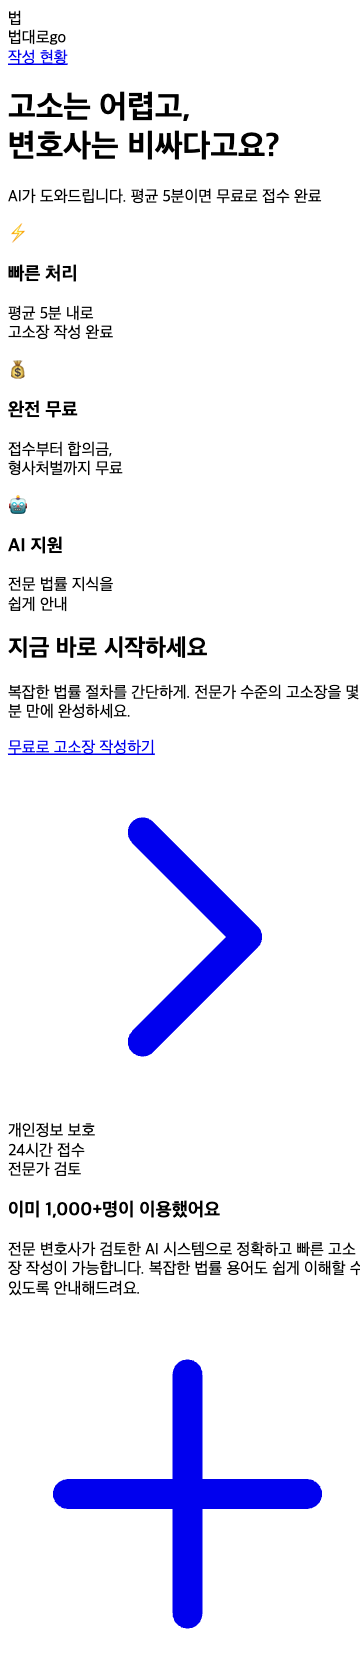
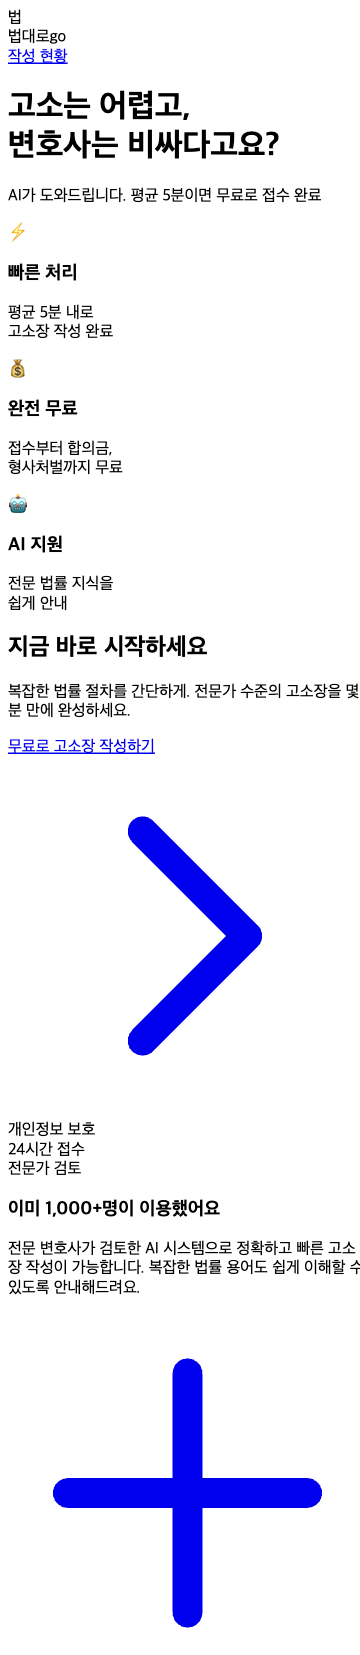
Use inline styles to force design application
- Add inline CSS styles to ensure proper rendering
- Force blue gradient background with inline style
- Add hover effects with onMouseEnter/onMouseLeave
- Ensure button shows as blue button instead of text link
- Add proper card styling with shadows and borders
- Bypass Tailwind CSS issues with direct styling

🤖 Generated with [Claude Code](https://claude.ai/code)

diff --git a/src/app/page.tsx b/src/app/page.tsx
@@ -2,7 +2,13 @@ import Link from "next/link";
 
 export default function Home() {
   return (
-    <div className="min-h-screen bg-gradient-to-br from-blue-600 via-blue-500 to-purple-600 relative overflow-hidden">
+    <div 
+      className="min-h-screen relative overflow-hidden"
+      style={{
+        background: 'linear-gradient(135deg, #2563eb 0%, #3b82f6 50%, #8b5cf6 100%)',
+        minHeight: '100vh'
+      }}
+    >
       {/* 백그라운드 장식 요소 */}
       <div className="absolute inset-0 overflow-hidden">
         <div className="absolute -top-40 -right-40 w-80 h-80 bg-white/20 rounded-full mix-blend-multiply filter blur-xl"></div>
@@ -47,7 +53,28 @@ export default function Home() {
 
           {/* 특징 카드들 */}
           <div className="grid md:grid-cols-3 gap-6 lg:gap-8 max-w-4xl mx-auto">
-            <div className="bg-white rounded-2xl shadow-xl border border-gray-100 p-8 text-center space-y-4 hover:shadow-2xl hover:border-gray-200 transition-all duration-300 hover:scale-105">
+            <div 
+              className="text-center"
+              style={{
+                backgroundColor: 'white',
+                borderRadius: '1rem',
+                boxShadow: '0 25px 50px -12px rgba(0, 0, 0, 0.25)',
+                border: '1px solid #f3f4f6',
+                padding: '2rem',
+                transition: 'all 0.3s ease',
+                cursor: 'pointer'
+              }}
+              onMouseEnter={(e) => {
+                e.currentTarget.style.transform = 'scale(1.05)';
+                e.currentTarget.style.boxShadow = '0 35px 60px -12px rgba(0, 0, 0, 0.35)';
+                e.currentTarget.style.borderColor = '#d1d5db';
+              }}
+              onMouseLeave={(e) => {
+                e.currentTarget.style.transform = 'scale(1)';
+                e.currentTarget.style.boxShadow = '0 25px 50px -12px rgba(0, 0, 0, 0.25)';
+                e.currentTarget.style.borderColor = '#f3f4f6';
+              }}
+            >
               <div className="w-16 h-16 bg-blue-100 rounded-2xl flex items-center justify-center mx-auto">
                 <span className="text-3xl">⚡</span>
               </div>
@@ -55,7 +82,28 @@ export default function Home() {
               <p className="text-gray-600">평균 5분 내로<br />고소장 작성 완료</p>
             </div>
             
-            <div className="bg-white rounded-2xl shadow-xl border border-gray-100 p-8 text-center space-y-4 hover:shadow-2xl hover:border-gray-200 transition-all duration-300 hover:scale-105">
+            <div 
+              className="text-center"
+              style={{
+                backgroundColor: 'white',
+                borderRadius: '1rem',
+                boxShadow: '0 25px 50px -12px rgba(0, 0, 0, 0.25)',
+                border: '1px solid #f3f4f6',
+                padding: '2rem',
+                transition: 'all 0.3s ease',
+                cursor: 'pointer'
+              }}
+              onMouseEnter={(e) => {
+                e.currentTarget.style.transform = 'scale(1.05)';
+                e.currentTarget.style.boxShadow = '0 35px 60px -12px rgba(0, 0, 0, 0.35)';
+                e.currentTarget.style.borderColor = '#d1d5db';
+              }}
+              onMouseLeave={(e) => {
+                e.currentTarget.style.transform = 'scale(1)';
+                e.currentTarget.style.boxShadow = '0 25px 50px -12px rgba(0, 0, 0, 0.25)';
+                e.currentTarget.style.borderColor = '#f3f4f6';
+              }}
+            >
               <div className="w-16 h-16 bg-green-100 rounded-2xl flex items-center justify-center mx-auto">
                 <span className="text-3xl">💰</span>
               </div>
@@ -63,7 +111,28 @@ export default function Home() {
               <p className="text-gray-600">접수부터 합의금,<br />형사처벌까지 무료</p>
             </div>
             
-            <div className="bg-white rounded-2xl shadow-xl border border-gray-100 p-8 text-center space-y-4 hover:shadow-2xl hover:border-gray-200 transition-all duration-300 hover:scale-105">
+            <div 
+              className="text-center"
+              style={{
+                backgroundColor: 'white',
+                borderRadius: '1rem',
+                boxShadow: '0 25px 50px -12px rgba(0, 0, 0, 0.25)',
+                border: '1px solid #f3f4f6',
+                padding: '2rem',
+                transition: 'all 0.3s ease',
+                cursor: 'pointer'
+              }}
+              onMouseEnter={(e) => {
+                e.currentTarget.style.transform = 'scale(1.05)';
+                e.currentTarget.style.boxShadow = '0 35px 60px -12px rgba(0, 0, 0, 0.35)';
+                e.currentTarget.style.borderColor = '#d1d5db';
+              }}
+              onMouseLeave={(e) => {
+                e.currentTarget.style.transform = 'scale(1)';
+                e.currentTarget.style.boxShadow = '0 25px 50px -12px rgba(0, 0, 0, 0.25)';
+                e.currentTarget.style.borderColor = '#f3f4f6';
+              }}
+            >
               <div className="w-16 h-16 bg-purple-100 rounded-2xl flex items-center justify-center mx-auto">
                 <span className="text-3xl">🤖</span>
               </div>
@@ -87,7 +156,29 @@ export default function Home() {
               {/* 메인 CTA 버튼 */}
               <Link
                 href="/submit"
-                className="w-full bg-blue-600 hover:bg-blue-700 text-white font-bold text-xl py-6 px-8 rounded-2xl transition-all duration-300 shadow-xl hover:shadow-2xl transform hover:scale-105 hover:-translate-y-1 block text-center group focus:ring-4 focus:ring-blue-300"
+                className="w-full block text-center group"
+                style={{
+                  backgroundColor: '#3b82f6',
+                  color: 'white',
+                  fontWeight: 'bold',
+                  fontSize: '1.25rem',
+                  padding: '1.5rem 2rem',
+                  borderRadius: '1rem',
+                  textDecoration: 'none',
+                  boxShadow: '0 25px 50px -12px rgba(0, 0, 0, 0.25)',
+                  transition: 'all 0.3s ease',
+                  transform: 'translateY(0)',
+                }}
+                onMouseEnter={(e) => {
+                  e.currentTarget.style.backgroundColor = '#2563eb';
+                  e.currentTarget.style.transform = 'translateY(-4px) scale(1.02)';
+                  e.currentTarget.style.boxShadow = '0 35px 60px -12px rgba(0, 0, 0, 0.35)';
+                }}
+                onMouseLeave={(e) => {
+                  e.currentTarget.style.backgroundColor = '#3b82f6';
+                  e.currentTarget.style.transform = 'translateY(0) scale(1)';
+                  e.currentTarget.style.boxShadow = '0 25px 50px -12px rgba(0, 0, 0, 0.25)';
+                }}
                 aria-label="무료로 고소장 작성 시작하기"
               >
                 <span className="flex items-center justify-center space-x-3">

diff --git a/test-force-refresh.js b/test-force-refresh.js
@@ -1,0 +1,81 @@
+const { chromium } = require('playwright');
+
+(async () => {
+  const browser = await chromium.launch({ headless: false });
+  const context = await browser.newContext({
+    viewport: { width: 1280, height: 720 }
+  });
+  const page = await context.newPage();
+
+  try {
+    const liveUrl = 'https://lawdaero-mvp.vercel.app/';
+    
+    console.log('🔄 강제 새로고침으로 캐시 무시하고 테스트...');
+    
+    // 캐시 클리어 및 강제 새로고침
+    await page.goto(liveUrl);
+    await page.evaluate(() => {
+      // 브라우저 캐시 클리어 시도
+      if ('caches' in window) {
+        caches.keys().then(names => {
+          names.forEach(name => {
+            caches.delete(name);
+          });
+        });
+      }
+    });
+    
+    // Hard refresh (Ctrl+F5 equivalent)
+    await page.reload({ waitUntil: 'networkidle' });
+    await page.waitForTimeout(3000);
+    
+    // 현재 상태 스크린샷
+    await page.screenshot({ 
+      path: 'screenshots/force-refresh-test.png', 
+      fullPage: true 
+    });
+    console.log('📸 강제 새로고침 후 스크린샷 저장됨');
+    
+    // CSS 로드 상태 확인
+    const stylesheets = await page.evaluate(() => {
+      const sheets = Array.from(document.styleSheets);
+      return sheets.map(sheet => ({
+        href: sheet.href,
+        rules: sheet.cssRules ? sheet.cssRules.length : 0
+      }));
+    });
+    
+    console.log('🎨 로드된 CSS 파일들:');
+    stylesheets.forEach(sheet => {
+      console.log(`   - ${sheet.href}: ${sheet.rules} rules`);
+    });
+    
+    // 특정 요소들의 computed style 확인
+    const mainDivBg = await page.evaluate(() => {
+      const mainDiv = document.querySelector('div');
+      return mainDiv ? window.getComputedStyle(mainDiv).backgroundColor : 'not found';
+    });
+    
+    console.log(`🎯 메인 div 배경색: ${mainDivBg}`);
+    
+    const h1Style = await page.evaluate(() => {
+      const h1 = document.querySelector('h1');
+      if (!h1) return 'h1 not found';
+      const style = window.getComputedStyle(h1);
+      return {
+        color: style.color,
+        fontSize: style.fontSize,
+        fontWeight: style.fontWeight
+      };
+    });
+    
+    console.log(`📝 H1 스타일:`, h1Style);
+    
+    await page.waitForTimeout(5000);
+
+  } catch (error) {
+    console.error('❌ 강제 새로고침 테스트 중 오류:', error);
+  } finally {
+    await browser.close();
+  }
+})();
